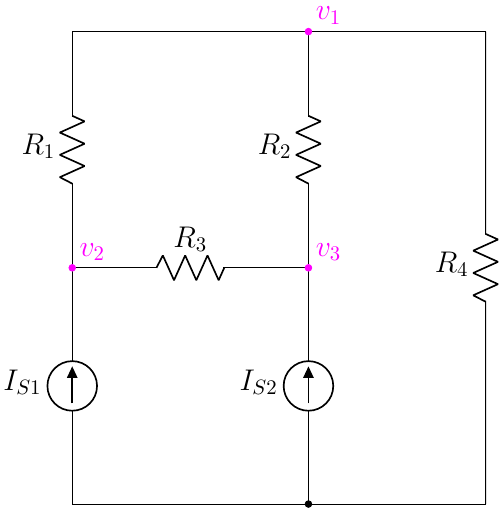
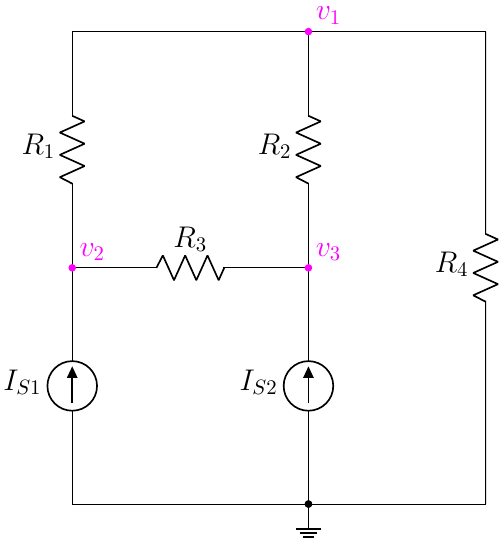
edit 3.17

diff --git a/1.3 Nodal Analysis/3.2 Nodal Analysis/3.17(new).tex b/1.3 Nodal Analysis/3.2 Nodal Analysis/3.17(new).tex
@@ -12,7 +12,8 @@
     \draw (7,0) to[R, l=\rname{4}] ++(0,8) ;
 
     %%% horizontal %%%
-    \draw(0,0) to[short] ++(7,0);
+    \draw(0,0)  to[short,-*] ++(4,0) node[ground]{}
+                to[short] ++(3,0);
 
     \draw(0,4) to[R,l=\rname{3}] ++(4,0);
 
